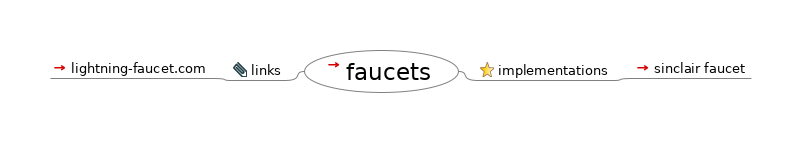
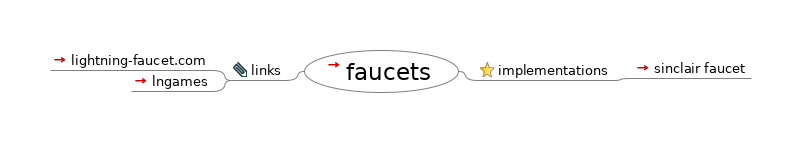
Add lngames faucet

Changed region(s): [[0.0624, 0.3916, 0.2809, 0.6434]]

diff --git a/dev/vouchers.html b/dev/vouchers.html
@@ -23,23 +23,25 @@
                    };
                };
           
-          --></script></head><body><h1>vouchers</h1><div style="width:96%;  padding:2%;  margin-bottom:10px;  border: 0px;  text-align:center;  vertical-align:center;"><img src="vouchers.html_files/image.png" style="margin-bottom:10px; &#9;border: 0px; &#9;text-align:center; &#9;vertical-align:center;" alt="Imagemap" usemap="#fm_imagemap" /></div><map name="fm_imagemap" id="fm_imagemap"><area shape="rect" href="index.html" alt="vouchers" title="vouchers" coords="381,94,567,137" />
+          --></script></head><body><h1>vouchers</h1><div style="width:96%;  padding:2%;  margin-bottom:10px;  border: 0px;  text-align:center;  vertical-align:center;"><img src="vouchers.html_files/image.png" style="margin-bottom:10px; &#9;border: 0px; &#9;text-align:center; &#9;vertical-align:center;" alt="Imagemap" usemap="#fm_imagemap" /></div><map name="fm_imagemap" id="fm_imagemap"><area shape="rect" href="index.html" alt="vouchers" title="vouchers" coords="381,102,567,145" />
 <area shape="rect" href="#FMID_1143974934FM" alt="implementations" title="implementations" coords="586,92,722,110" />
 <area shape="rect" href="https://lightning.gifts/" alt="lightning gifts" title="lightning gifts" coords="741,50,857,68" />
 <area shape="rect" href="https://fastbitcoins.com/" alt="fastbitcoins" title="fastbitcoins" coords="741,71,842,89" />
 <area shape="rect" href="https://donnerlab.com/voucher" alt="donnerlab" title="donnerlab" coords="741,92,833,110" />
 <area shape="rect" href="https://github.com/solidpayorg/webvouchers/blob/gh-pages/bin/lightning.js" alt="webvouchers source code" title="webvouchers source code" coords="741,113,939,131" />
 <area shape="rect" href="https://flitz.cards/" alt="flitz.cards" title="flitz.cards" coords="741,134,830,152" />
-<area shape="rect" href="#FMID_1029049124FM" alt="coming soon" title="coming soon" coords="586,159,675,177" />
-<area shape="rect" href="https://twitter.com/lngames_net/status/1190393843881041920?s=17" alt="lngames" title="lngames" coords="694,157,775,175" />
+<area shape="rect" href="#FMID_1029049124FM" alt="coming soon" title="coming soon" coords="586,167,675,185" />
+<area shape="rect" href="https://twitter.com/lngames_net/status/1190393843881041920?s=17" alt="lngames" title="lngames" coords="694,165,775,183" />
 <area shape="rect" href="https://twitter.com/lngames_net/status/1192164048844083200?s=17" alt="voucher test" title="voucher test" coords="794,155,902,173" />
-<area shape="rect" href="#FMID_1091889470FM" alt="links" title="links" coords="308,106,362,124" />
-<area shape="rect" href="https://webvouchers.org/" alt="webvouchers.org" title="webvouchers.org" coords="150,94,289,112" />
-<area shape="rect" href="#FMID_980844235FM" alt="previous" title="previous" coords="228,117,289,135" />
-<area shape="rect" href="https://kriptode.com/" alt="https://kriptode.com/" title="https://kriptode.com/" coords="50,115,209,133" />
+<area shape="rect" href="https://vouchers.lngames.net/" alt="faucet" title="faucet" coords="794,176,860,194" />
+<area shape="rect" href="#FMID_1091889470FM" alt="links" title="links" coords="308,114,362,132" />
+<area shape="rect" href="https://webvouchers.org/" alt="webvouchers.org" title="webvouchers.org" coords="150,91,289,109" />
+<area shape="rect" href="#FMID_273349597FM" alt="lnurl" title="lnurl" coords="255,112,289,130" />
+<area shape="rect" href="#FMID_980844235FM" alt="previous" title="previous" coords="228,135,289,153" />
+<area shape="rect" href="https://kriptode.com/" alt="https://kriptode.com/" title="https://kriptode.com/" coords="50,133,209,151" />
 </map>
 
-<div class="node"><img src="vouchers.html_files/hide.png" class="hideshow" alt="hide" onClick="toggle(&quot;N65543&quot;)" id="imgN65543" /><a id="FMID_44737290FM" /><div class="nodecontent" style="color:#000000;font-size:150%;"><a href="index.html">vouchers</a> <a href="index.html"><img src="vouchers.html_files/ilink.png" alt="User Link" style="border-width:0" /></a></div><div class="content" id="N65543"><div class="node"><img src="vouchers.html_files/hide.png" class="hideshow" alt="hide" onClick="toggle(&quot;N66435&quot;)" id="imgN66435" /><img src="vouchers.html_files/icons/bookmark.svg" alt="bookmark" /> <a id="FMID_1143974934FM" /><div class="nodecontent" style="color:#000000;font-size:83%;">implementations</div><div class="content" id="N66435"><div class="node"><img src="vouchers.html_files/leaf.png" class="hideshow" alt="leaf" /><a id="FMID_1798463538FM" /><div class="nodecontent" style="color:#000000;font-size:83%;"><a href="https://lightning.gifts/">lightning gifts</a> <a href="https://lightning.gifts/"><img src="vouchers.html_files/ilink.png" alt="User Link" style="border-width:0" /></a></div></div><div class="node"><img src="vouchers.html_files/leaf.png" class="hideshow" alt="leaf" /><a id="FMID_1647714766FM" /><div class="nodecontent" style="color:#000000;font-size:83%;"><a href="https://fastbitcoins.com/">fastbitcoins</a> <a href="https://fastbitcoins.com/"><img src="vouchers.html_files/ilink.png" alt="User Link" style="border-width:0" /></a></div></div><div class="node"><img src="vouchers.html_files/leaf.png" class="hideshow" alt="leaf" /><a id="FMID_606800072FM" /><div class="nodecontent" style="color:#000000;font-size:83%;"><a href="https://donnerlab.com/voucher">donnerlab</a> <a href="https://donnerlab.com/voucher"><img src="vouchers.html_files/ilink.png" alt="User Link" style="border-width:0" /></a></div></div><div class="node"><img src="vouchers.html_files/leaf.png" class="hideshow" alt="leaf" /><a id="FMID_530694162FM" /><div class="nodecontent" style="color:#000000;font-size:83%;"><a href="https://github.com/solidpayorg/webvouchers/blob/gh-pages/bin/lightning.js">webvouchers source code</a> <a href="https://github.com/solidpayorg/webvouchers/blob/gh-pages/bin/lightning.js"><img src="vouchers.html_files/ilink.png" alt="User Link" style="border-width:0" /></a></div></div><div class="node"><img src="vouchers.html_files/leaf.png" class="hideshow" alt="leaf" /><a id="FMID_1126225682FM" /><div class="nodecontent" style="color:#000000;font-size:83%;"><a href="https://flitz.cards/">flitz.cards</a> <a href="https://flitz.cards/"><img src="vouchers.html_files/ilink.png" alt="User Link" style="border-width:0" /></a></div></div></div></div><div class="node"><img src="vouchers.html_files/hide.png" class="hideshow" alt="hide" onClick="toggle(&quot;N66662&quot;)" id="imgN66662" /><a id="FMID_1029049124FM" /><div class="nodecontent" style="color:#000000;font-size:83%;">coming soon</div><div class="content" id="N66662"><div class="node"><img src="vouchers.html_files/hide.png" class="hideshow" alt="hide" onClick="toggle(&quot;N66698&quot;)" id="imgN66698" /><a id="FMID_1651596806FM" /><div class="nodecontent" style="color:#000000;font-size:83%;"><a href="https://twitter.com/lngames_net/status/1190393843881041920?s=17">lngames</a> <a href="https://twitter.com/lngames_net/status/1190393843881041920?s=17"><img src="vouchers.html_files/ilink.png" alt="User Link" style="border-width:0" /></a></div><div class="content" id="N66698"><div class="node"><img src="vouchers.html_files/leaf.png" class="hideshow" alt="leaf" /><a id="FMID_810655095FM" /><div class="nodecontent" style="color:#000000;font-size:83%;"><a href="https://twitter.com/lngames_net/status/1192164048844083200?s=17">voucher test</a> <a href="https://twitter.com/lngames_net/status/1192164048844083200?s=17"><img src="vouchers.html_files/ilink.png" alt="User Link" style="border-width:0" /></a></div></div></div></div></div></div><div class="node"><img src="vouchers.html_files/hide.png" class="hideshow" alt="hide" onClick="toggle(&quot;N66773&quot;)" id="imgN66773" /><img src="vouchers.html_files/icons/attach.svg" alt="attach" /> <a id="FMID_1091889470FM" /><div class="nodecontent" style="color:#000000;font-size:83%;">links</div><div class="content" id="N66773"><div class="node"><img src="vouchers.html_files/leaf.png" class="hideshow" alt="leaf" /><a id="FMID_255085710FM" /><div class="nodecontent" style="color:#000000;font-size:83%;"><a href="https://webvouchers.org/">webvouchers.org</a> <a href="https://webvouchers.org/"><img src="vouchers.html_files/ilink.png" alt="User Link" style="border-width:0" /></a></div></div><div class="node"><img src="vouchers.html_files/hide.png" class="hideshow" alt="hide" onClick="toggle(&quot;N66851&quot;)" id="imgN66851" /><a id="FMID_980844235FM" /><div class="nodecontent" style="color:#000000;font-size:83%;">previous</div><div class="content" id="N66851"><div class="node"><img src="vouchers.html_files/leaf.png" class="hideshow" alt="leaf" /><a id="FMID_247465001FM" /><div class="nodecontent" style="color:#000000;font-size:83%;"><a href="https://kriptode.com/">
+<div class="node"><img src="vouchers.html_files/hide.png" class="hideshow" alt="hide" onClick="toggle(&quot;N65543&quot;)" id="imgN65543" /><a id="FMID_44737290FM" /><div class="nodecontent" style="color:#000000;font-size:150%;"><a href="index.html">vouchers</a> <a href="index.html"><img src="vouchers.html_files/ilink.png" alt="User Link" style="border-width:0" /></a></div><div class="content" id="N65543"><div class="node"><img src="vouchers.html_files/hide.png" class="hideshow" alt="hide" onClick="toggle(&quot;N66435&quot;)" id="imgN66435" /><img src="vouchers.html_files/icons/bookmark.svg" alt="bookmark" /> <a id="FMID_1143974934FM" /><div class="nodecontent" style="color:#000000;font-size:83%;">implementations</div><div class="content" id="N66435"><div class="node"><img src="vouchers.html_files/leaf.png" class="hideshow" alt="leaf" /><a id="FMID_1798463538FM" /><div class="nodecontent" style="color:#000000;font-size:83%;"><a href="https://lightning.gifts/">lightning gifts</a> <a href="https://lightning.gifts/"><img src="vouchers.html_files/ilink.png" alt="User Link" style="border-width:0" /></a></div></div><div class="node"><img src="vouchers.html_files/leaf.png" class="hideshow" alt="leaf" /><a id="FMID_1647714766FM" /><div class="nodecontent" style="color:#000000;font-size:83%;"><a href="https://fastbitcoins.com/">fastbitcoins</a> <a href="https://fastbitcoins.com/"><img src="vouchers.html_files/ilink.png" alt="User Link" style="border-width:0" /></a></div></div><div class="node"><img src="vouchers.html_files/leaf.png" class="hideshow" alt="leaf" /><a id="FMID_606800072FM" /><div class="nodecontent" style="color:#000000;font-size:83%;"><a href="https://donnerlab.com/voucher">donnerlab</a> <a href="https://donnerlab.com/voucher"><img src="vouchers.html_files/ilink.png" alt="User Link" style="border-width:0" /></a></div></div><div class="node"><img src="vouchers.html_files/leaf.png" class="hideshow" alt="leaf" /><a id="FMID_530694162FM" /><div class="nodecontent" style="color:#000000;font-size:83%;"><a href="https://github.com/solidpayorg/webvouchers/blob/gh-pages/bin/lightning.js">webvouchers source code</a> <a href="https://github.com/solidpayorg/webvouchers/blob/gh-pages/bin/lightning.js"><img src="vouchers.html_files/ilink.png" alt="User Link" style="border-width:0" /></a></div></div><div class="node"><img src="vouchers.html_files/leaf.png" class="hideshow" alt="leaf" /><a id="FMID_1126225682FM" /><div class="nodecontent" style="color:#000000;font-size:83%;"><a href="https://flitz.cards/">flitz.cards</a> <a href="https://flitz.cards/"><img src="vouchers.html_files/ilink.png" alt="User Link" style="border-width:0" /></a></div></div></div></div><div class="node"><img src="vouchers.html_files/hide.png" class="hideshow" alt="hide" onClick="toggle(&quot;N66662&quot;)" id="imgN66662" /><a id="FMID_1029049124FM" /><div class="nodecontent" style="color:#000000;font-size:83%;">coming soon</div><div class="content" id="N66662"><div class="node"><img src="vouchers.html_files/hide.png" class="hideshow" alt="hide" onClick="toggle(&quot;N66698&quot;)" id="imgN66698" /><a id="FMID_1651596806FM" /><div class="nodecontent" style="color:#000000;font-size:83%;"><a href="https://twitter.com/lngames_net/status/1190393843881041920?s=17">lngames</a> <a href="https://twitter.com/lngames_net/status/1190393843881041920?s=17"><img src="vouchers.html_files/ilink.png" alt="User Link" style="border-width:0" /></a></div><div class="content" id="N66698"><div class="node"><img src="vouchers.html_files/leaf.png" class="hideshow" alt="leaf" /><a id="FMID_810655095FM" /><div class="nodecontent" style="color:#000000;font-size:83%;"><a href="https://twitter.com/lngames_net/status/1192164048844083200?s=17">voucher test</a> <a href="https://twitter.com/lngames_net/status/1192164048844083200?s=17"><img src="vouchers.html_files/ilink.png" alt="User Link" style="border-width:0" /></a></div></div><div class="node"><img src="vouchers.html_files/leaf.png" class="hideshow" alt="leaf" /><a id="FMID_821246023FM" /><div class="nodecontent" style="color:#000000;font-size:83%;"><a href="https://vouchers.lngames.net/">faucet</a> <a href="https://vouchers.lngames.net/"><img src="vouchers.html_files/ilink.png" alt="User Link" style="border-width:0" /></a></div></div></div></div></div></div><div class="node"><img src="vouchers.html_files/hide.png" class="hideshow" alt="hide" onClick="toggle(&quot;N66810&quot;)" id="imgN66810" /><img src="vouchers.html_files/icons/attach.svg" alt="attach" /> <a id="FMID_1091889470FM" /><div class="nodecontent" style="color:#000000;font-size:83%;">links</div><div class="content" id="N66810"><div class="node"><img src="vouchers.html_files/leaf.png" class="hideshow" alt="leaf" /><a id="FMID_255085710FM" /><div class="nodecontent" style="color:#000000;font-size:83%;"><a href="https://webvouchers.org/">webvouchers.org</a> <a href="https://webvouchers.org/"><img src="vouchers.html_files/ilink.png" alt="User Link" style="border-width:0" /></a></div></div><div class="node"><img src="vouchers.html_files/leaf.png" class="hideshow" alt="leaf" /><a id="FMID_273349597FM" /><div class="nodecontent" style="color:#000000;font-size:83%;">lnurl</div></div><div class="node"><img src="vouchers.html_files/hide.png" class="hideshow" alt="hide" onClick="toggle(&quot;N66924&quot;)" id="imgN66924" /><a id="FMID_980844235FM" /><div class="nodecontent" style="color:#000000;font-size:83%;">previous</div><div class="content" id="N66924"><div class="node"><img src="vouchers.html_files/leaf.png" class="hideshow" alt="leaf" /><a id="FMID_247465001FM" /><div class="nodecontent" style="color:#000000;font-size:83%;"><a href="https://kriptode.com/">
     <a http-equiv="content-type" content="text/html; charset=utf-8" href="https://kriptode.com/">https://kriptode.com/</a>
   </a> <a href="https://kriptode.com/"><img src="vouchers.html_files/ilink.png" alt="User Link" style="border-width:0" /></a></div></div></div></div></div></div></div></div>
 </body></html>

diff --git a/dev/faucets.html b/dev/faucets.html
@@ -27,8 +27,9 @@
 <area shape="rect" href="#FMID_1143974934FM" alt="implementations" title="implementations" coords="478,62,614,80" />
 <area shape="rect" href="https://lnurl.com/faucet/" alt="sinclair faucet" title="sinclair faucet" coords="633,60,751,78" />
 <area shape="rect" href="#FMID_1091889470FM" alt="links" title="links" coords="231,62,285,80" />
-<area shape="rect" href="https://lightning-faucet.com/" alt="lightning-faucet.com" title="lightning-faucet.com" coords="50,60,212,78" />
+<area shape="rect" href="https://lightning-faucet.com/" alt="lightning-faucet.com" title="lightning-faucet.com" coords="50,52,212,70" />
+<area shape="rect" href="https://vouchers.lngames.net/" alt="lngames" title="lngames" coords="131,73,212,91" />
 </map>
 
-<div class="node"><img src="faucets.html_files/hide.png" class="hideshow" alt="hide" onClick="toggle(&quot;N65543&quot;)" id="imgN65543" /><a id="FMID_44737290FM" /><div class="nodecontent" style="color:#000000;font-size:150%;"><a href="index.html">faucets</a> <a href="index.html"><img src="faucets.html_files/ilink.png" alt="User Link" style="border-width:0" /></a></div><div class="content" id="N65543"><div class="node"><img src="faucets.html_files/hide.png" class="hideshow" alt="hide" onClick="toggle(&quot;N66435&quot;)" id="imgN66435" /><img src="faucets.html_files/icons/bookmark.svg" alt="bookmark" /> <a id="FMID_1143974934FM" /><div class="nodecontent" style="color:#000000;font-size:83%;">implementations</div><div class="content" id="N66435"><div class="node"><img src="faucets.html_files/leaf.png" class="hideshow" alt="leaf" /><a id="FMID_412531535FM" /><div class="nodecontent" style="color:#000000;font-size:83%;"><a href="https://lnurl.com/faucet/">sinclair faucet</a> <a href="https://lnurl.com/faucet/"><img src="faucets.html_files/ilink.png" alt="User Link" style="border-width:0" /></a></div></div></div></div><div class="node"><img src="faucets.html_files/hide.png" class="hideshow" alt="hide" onClick="toggle(&quot;N66514&quot;)" id="imgN66514" /><img src="faucets.html_files/icons/attach.svg" alt="attach" /> <a id="FMID_1091889470FM" /><div class="nodecontent" style="color:#000000;font-size:83%;">links</div><div class="content" id="N66514"><div class="node"><img src="faucets.html_files/leaf.png" class="hideshow" alt="leaf" /><a id="FMID_1367125136FM" /><div class="nodecontent" style="color:#000000;font-size:83%;"><a href="https://lightning-faucet.com/">lightning-faucet.com</a> <a href="https://lightning-faucet.com/"><img src="faucets.html_files/ilink.png" alt="User Link" style="border-width:0" /></a></div></div></div></div></div></div>
+<div class="node"><img src="faucets.html_files/hide.png" class="hideshow" alt="hide" onClick="toggle(&quot;N65543&quot;)" id="imgN65543" /><a id="FMID_44737290FM" /><div class="nodecontent" style="color:#000000;font-size:150%;"><a href="index.html">faucets</a> <a href="index.html"><img src="faucets.html_files/ilink.png" alt="User Link" style="border-width:0" /></a></div><div class="content" id="N65543"><div class="node"><img src="faucets.html_files/hide.png" class="hideshow" alt="hide" onClick="toggle(&quot;N66435&quot;)" id="imgN66435" /><img src="faucets.html_files/icons/bookmark.svg" alt="bookmark" /> <a id="FMID_1143974934FM" /><div class="nodecontent" style="color:#000000;font-size:83%;">implementations</div><div class="content" id="N66435"><div class="node"><img src="faucets.html_files/leaf.png" class="hideshow" alt="leaf" /><a id="FMID_412531535FM" /><div class="nodecontent" style="color:#000000;font-size:83%;"><a href="https://lnurl.com/faucet/">sinclair faucet</a> <a href="https://lnurl.com/faucet/"><img src="faucets.html_files/ilink.png" alt="User Link" style="border-width:0" /></a></div></div></div></div><div class="node"><img src="faucets.html_files/hide.png" class="hideshow" alt="hide" onClick="toggle(&quot;N66514&quot;)" id="imgN66514" /><img src="faucets.html_files/icons/attach.svg" alt="attach" /> <a id="FMID_1091889470FM" /><div class="nodecontent" style="color:#000000;font-size:83%;">links</div><div class="content" id="N66514"><div class="node"><img src="faucets.html_files/leaf.png" class="hideshow" alt="leaf" /><a id="FMID_1367125136FM" /><div class="nodecontent" style="color:#000000;font-size:83%;"><a href="https://lightning-faucet.com/">lightning-faucet.com</a> <a href="https://lightning-faucet.com/"><img src="faucets.html_files/ilink.png" alt="User Link" style="border-width:0" /></a></div></div><div class="node"><img src="faucets.html_files/leaf.png" class="hideshow" alt="leaf" /><a id="FMID_1240292680FM" /><div class="nodecontent" style="color:#000000;font-size:83%;"><a href="https://vouchers.lngames.net/">lngames</a> <a href="https://vouchers.lngames.net/"><img src="faucets.html_files/ilink.png" alt="User Link" style="border-width:0" /></a></div></div></div></div></div></div>
 </body></html>

diff --git a/dev/vouchers.mm b/dev/vouchers.mm
@@ -74,6 +74,7 @@
 <node TEXT="coming soon" POSITION="right" ID="ID_1029049124" CREATED="1572864541700" MODIFIED="1572864543785">
 <node TEXT="lngames" ID="ID_1651596806" CREATED="1572864580441" MODIFIED="1572864586019" LINK="https://twitter.com/lngames_net/status/1190393843881041920?s=17">
 <node TEXT="voucher test" ID="ID_810655095" CREATED="1573199619889" MODIFIED="1573199628335" LINK="https://twitter.com/lngames_net/status/1192164048844083200?s=17"/>
+<node TEXT="faucet" ID="ID_821246023" CREATED="1574091219312" MODIFIED="1574091223654" LINK="https://vouchers.lngames.net/"/>
 </node>
 </node>
 <node TEXT="links" POSITION="left" ID="ID_1091889470" CREATED="1572863277991" MODIFIED="1572863277998">

diff --git a/dev/faucets.mm b/dev/faucets.mm
@@ -70,6 +70,7 @@
 <node TEXT="links" POSITION="left" ID="ID_1091889470" CREATED="1572863277991" MODIFIED="1572863277998">
 <icon BUILTIN="attach"/>
 <node TEXT="lightning-faucet.com" ID="ID_1367125136" CREATED="1572952409369" MODIFIED="1572952420288" LINK="https://lightning-faucet.com/"/>
+<node TEXT="lngames" ID="ID_1240292680" CREATED="1574091262331" MODIFIED="1574091266060" LINK="https://vouchers.lngames.net/"/>
 </node>
 </node>
 </map>
